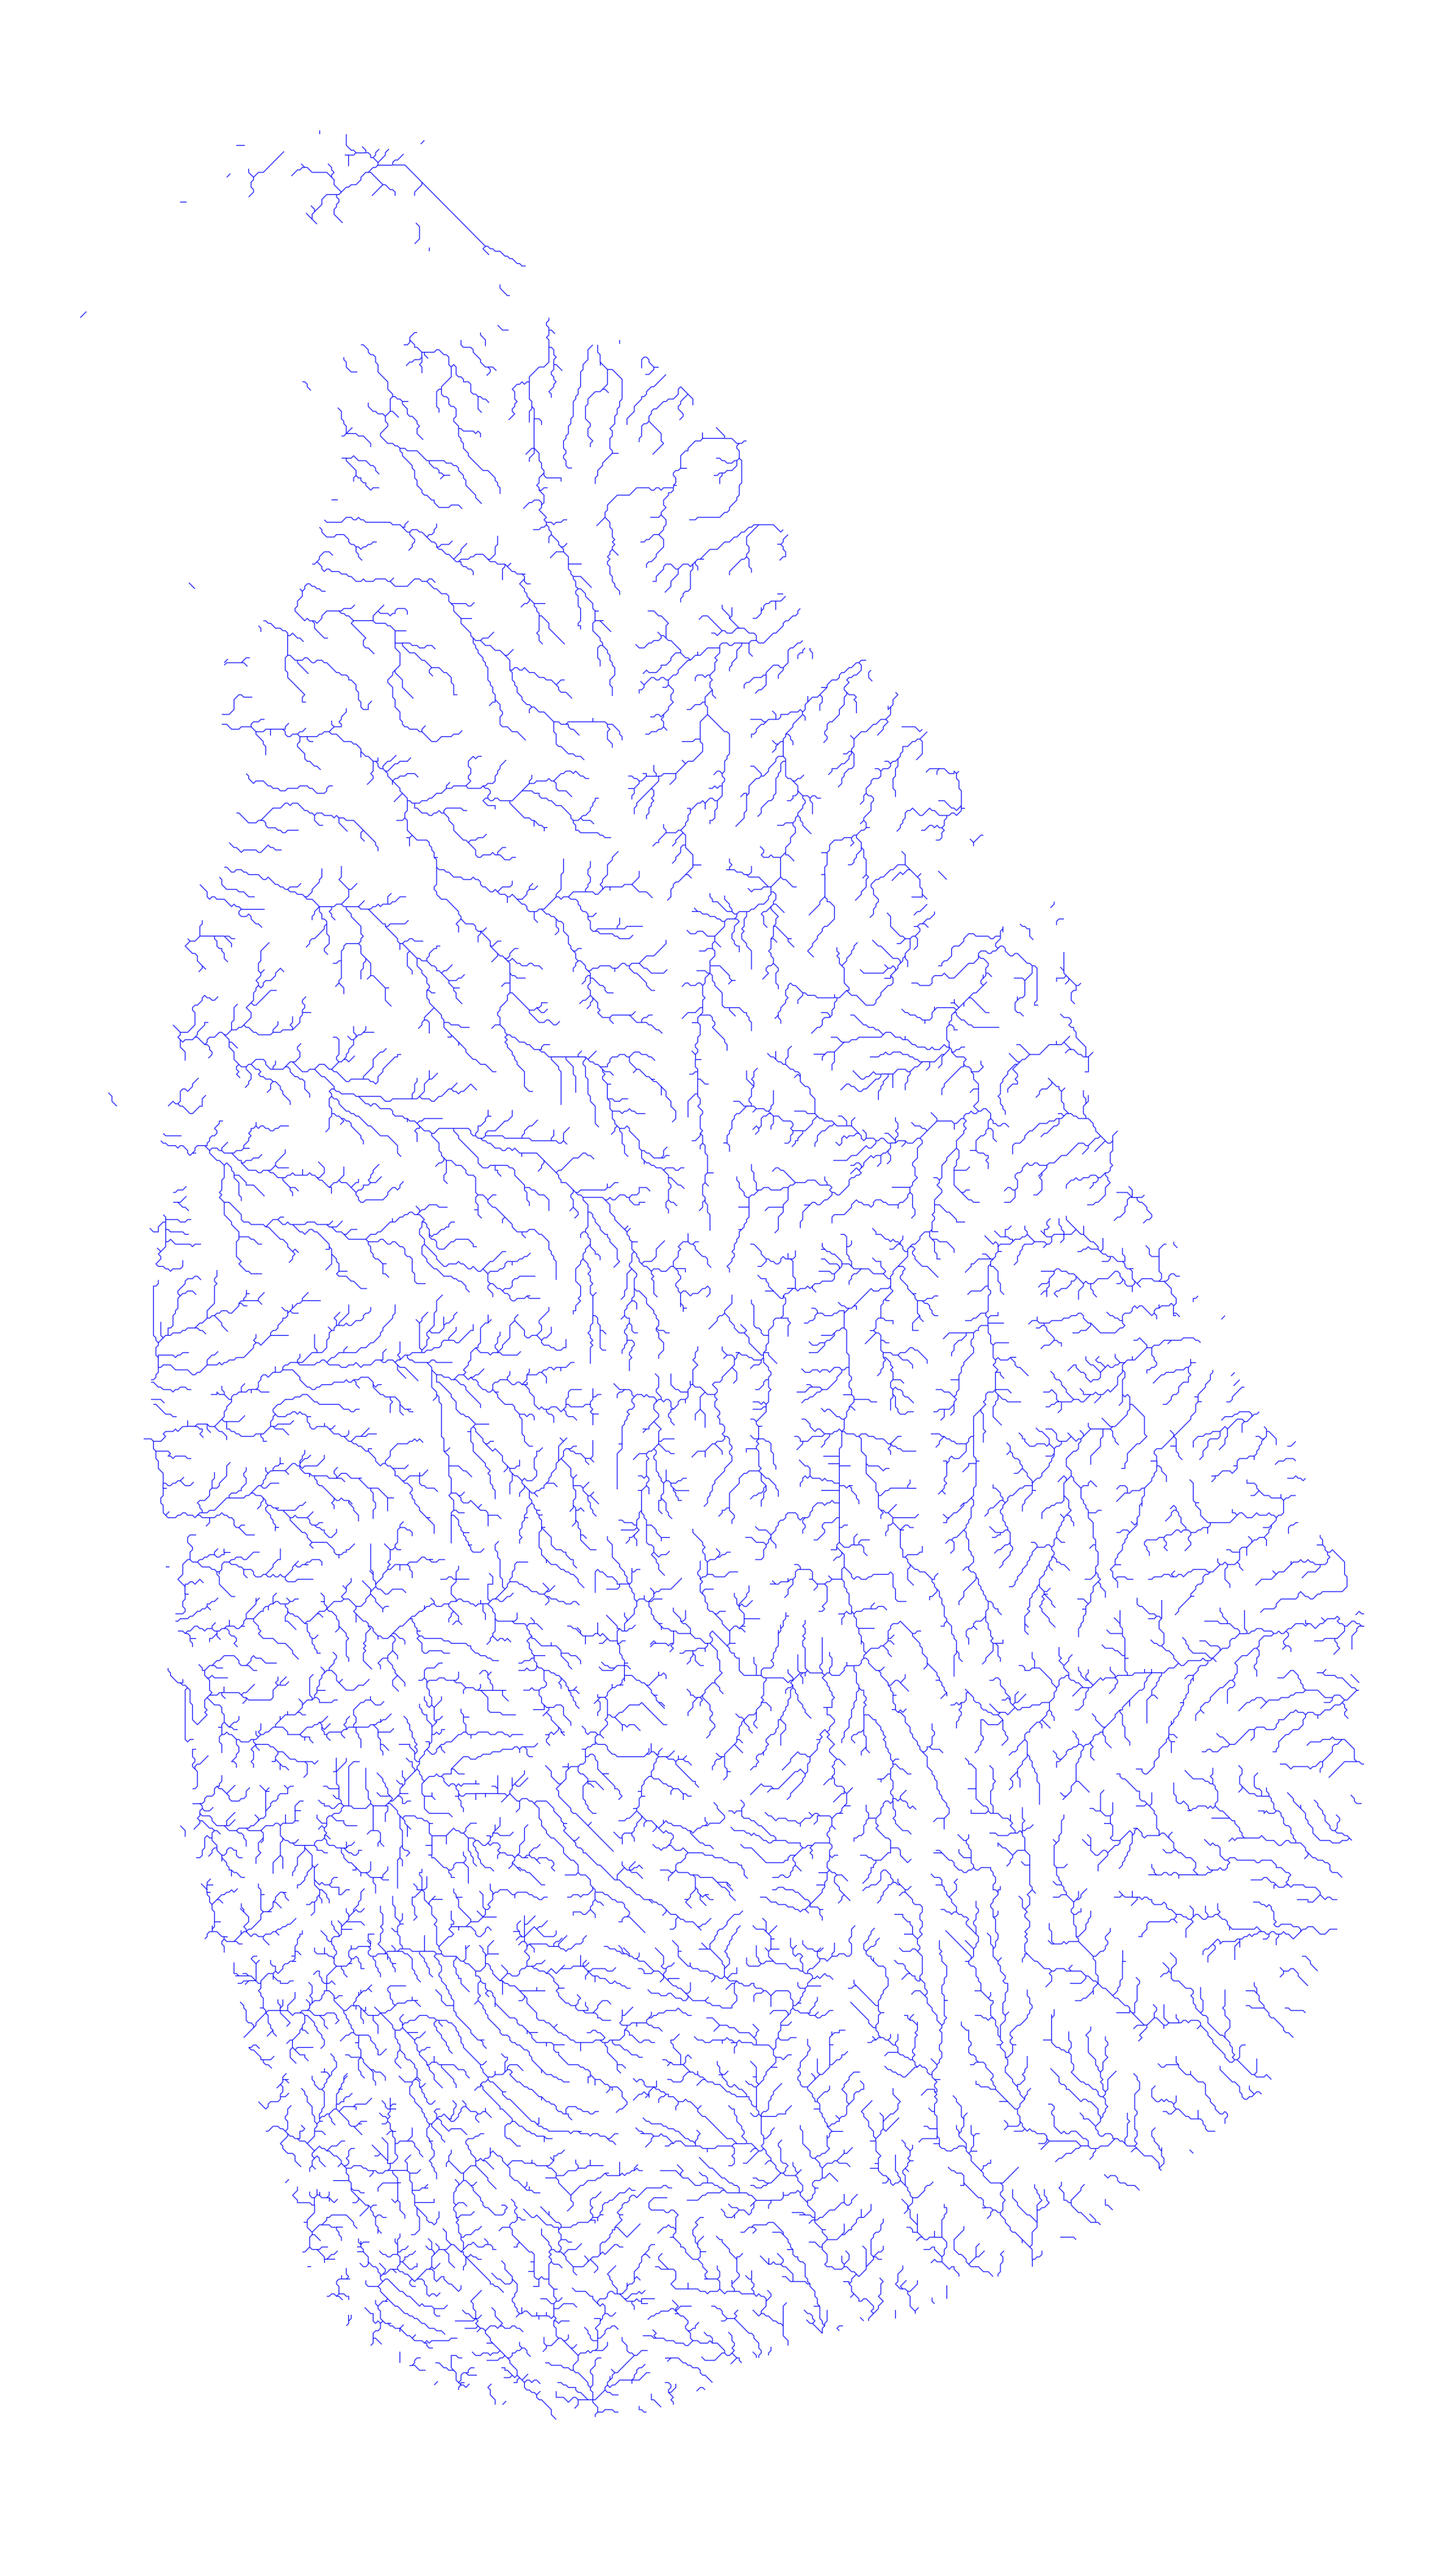
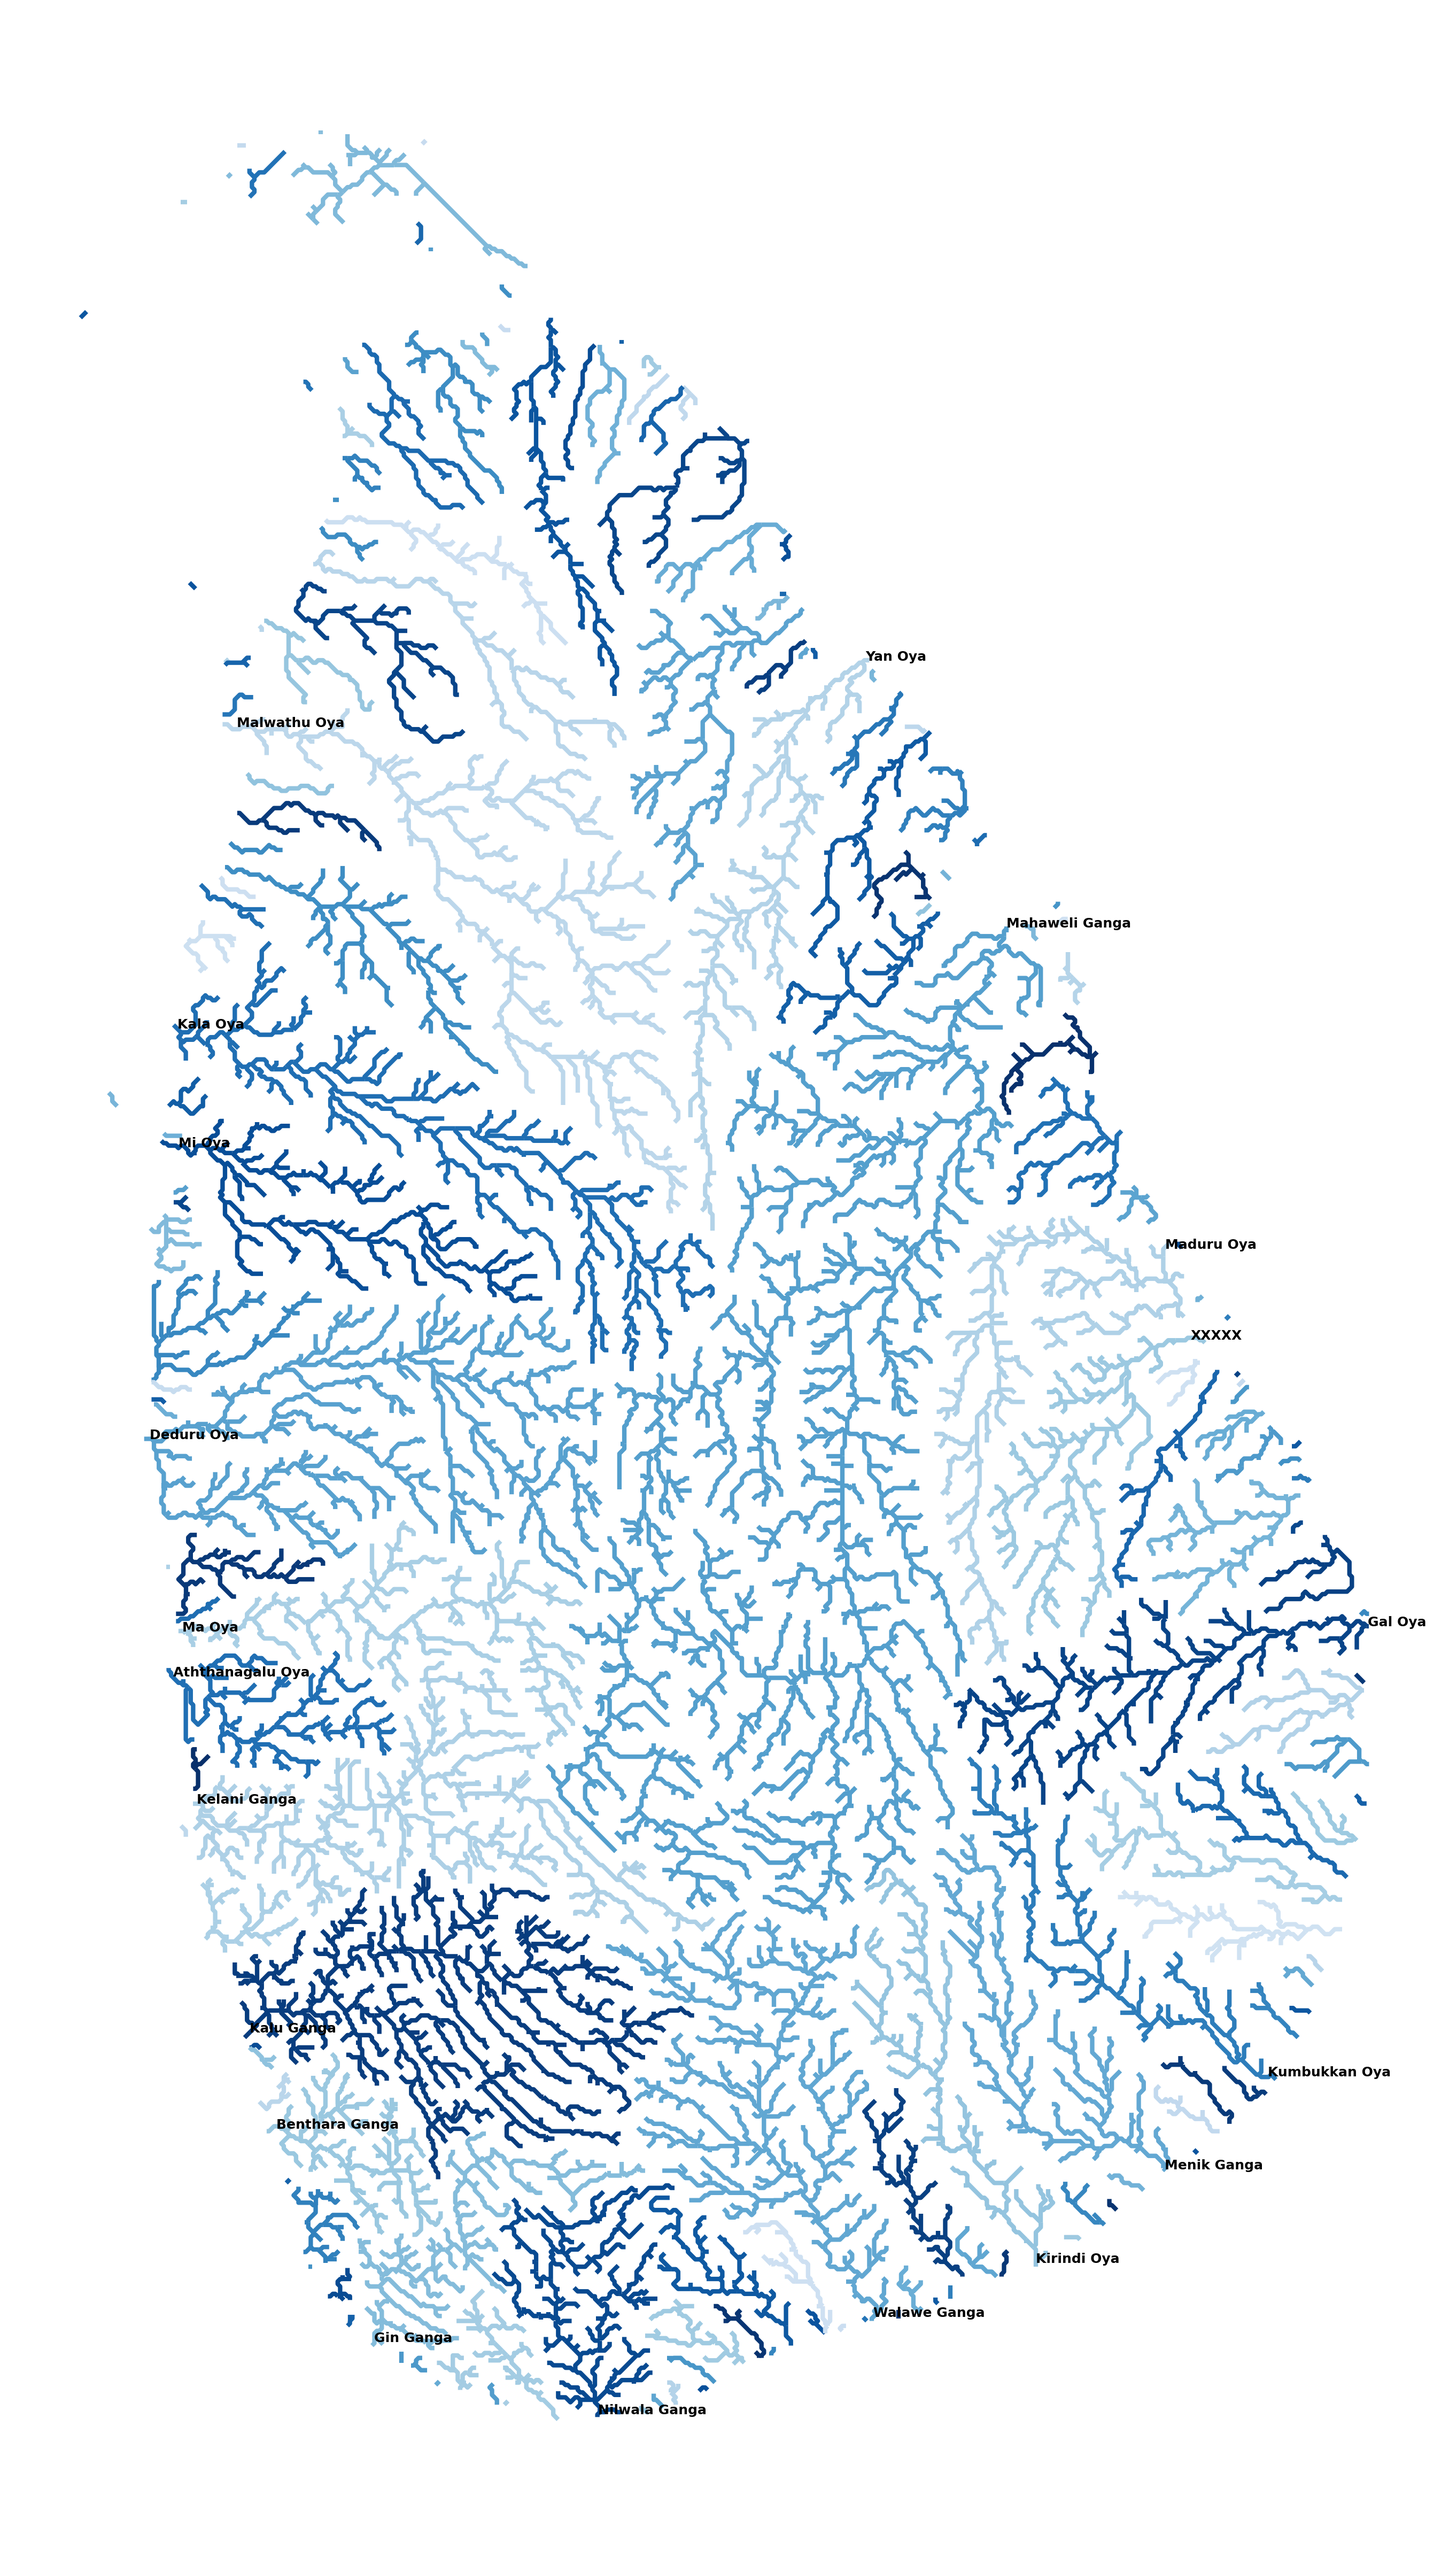
Add river ID to name mapping and enhance river rendering with annotations

Changed region(s): [[0.0933, 0.1249, 0.9641, 0.9683], [0.2177, 0.0625, 0.311, 0.0937]]

diff --git a/workflows/render_rivers.py b/workflows/render_rivers.py
@@ -2,7 +2,9 @@
 Render rivers from HydroRIVERS GeoDB
 """
 
+import json
 import os
+import random
 import zipfile
 from pathlib import Path
 
@@ -66,16 +68,71 @@ def filter_sri_lanka(gdf):
 
 
 def render_rivers(gdf, output_path=None):
-    """Render the rivers on a map"""
+    """
+    Render the rivers on a map using randomly distributed shades of blue for
+    each MAIN_RIV and annotate with river names from riv_id_to_name.json (if
+    available) at the mouth of the river (identified by NEXT_DOWN = 0).
+    """
     print("Rendering rivers...")
     print("GeoDataFrame columns:", gdf.columns.tolist())
     print("Sample data:")
     print(gdf.head())
 
+    # Load river ID to name mapping
+    riv_id_to_name_path = (
+        Path(__file__).parent.parent / "data/static/riv_id_to_name.json"
+    )
+    with open(riv_id_to_name_path, "r", encoding="utf-8") as f:
+        riv_id_to_name = json.load(f)
+
     fig, ax = plt.subplots(figsize=(12, 16))
 
-    # Plot rivers
-    gdf.plot(ax=ax, linewidth=0.5, edgecolor="blue", alpha=0.7)
+    # Assign a random shade of blue to each MAIN_RIV
+    if "MAIN_RIV" in gdf.columns:
+        unique_rivers = gdf["MAIN_RIV"].unique()
+        shades_of_blue = [plt.cm.Blues(i / 256) for i in range(50, 256)]
+        random.shuffle(shades_of_blue)
+        color_map = {
+            river: shades_of_blue[i % len(shades_of_blue)]
+            for i, river in enumerate(unique_rivers)
+        }
+        gdf["color"] = gdf["MAIN_RIV"].map(color_map)
+
+        # Plot rivers with their randomly assigned shades of blue
+        for river, group in gdf.groupby("MAIN_RIV"):
+            group.plot(
+                ax=ax,
+                linewidth=2,
+                color=color_map[river],
+                alpha=1,
+                label=str(river),
+            )
+
+            # Annotate the map with river names (if available) at the mouth
+            river_name = riv_id_to_name.get(str(river), None)
+            if river_name:
+                # Find the row where NEXT_DOWN = 0 (mouth of the river)
+                mouth_row = group[group["NEXT_DOWN"] == 0]
+                if not mouth_row.empty:
+                    mouth_row = mouth_row.iloc[0]
+                    if mouth_row.geometry.type == "LineString":
+                        x, y = mouth_row.geometry.coords[
+                            -1
+                        ]  # Mouth of the river
+                    else:
+                        x, y = mouth_row.geometry.centroid.xy
+                        x, y = x[0], y[0]
+                    ax.text(
+                        x,
+                        y,
+                        river_name,
+                        fontsize=6,
+                        color="black",
+                        weight="bold",
+                    )
+    else:
+        # Default to a single color if MAIN_RIV is not available
+        gdf.plot(ax=ax, linewidth=0.5, edgecolor="blue", alpha=0.7)
 
     # Remove axis labels, grid, and outer border
     ax.set_xlabel("")
@@ -85,33 +142,6 @@ def render_rivers(gdf, output_path=None):
     ax.set_yticks([])
     for spine in ax.spines.values():
         spine.set_visible(False)
-
-    # Annotate major rivers if possible
-    major_name_fields = ["name", "NAME", "RiverName", "RIVER_NAME"]
-    name_field = None
-    for field in major_name_fields:
-        if field in gdf.columns:
-            name_field = field
-            break
-
-    if name_field:
-        # Annotate all rivers with their names
-        for idx, row in gdf.iterrows():
-            if not row.get(name_field):
-                continue
-            geom = row.geometry
-            if geom.type == "LineString":
-                x, y = geom.interpolate(0.5, normalized=True).xy
-            else:
-                x, y = geom.centroid.xy
-            ax.text(
-                x[0],
-                y[0],
-                str(row[name_field]),
-                fontsize=8,
-                color="darkred",
-                weight="bold",
-            )
 
     plt.tight_layout()
 

diff --git a/workflows/analyse_rivers.py b/workflows/analyse_rivers.py
@@ -1,0 +1,33 @@
+import json
+import os
+
+
+def main():
+    DIR_RIVERS = os.path.join("data", "rivers")
+    main_riv_id_to_file_size = {}
+    for file_name in os.listdir(DIR_RIVERS):
+        if not file_name.endswith(".geojson"):
+            continue
+        riv_id = file_name.replace(".geojson", "")
+        file_path = os.path.join(DIR_RIVERS, file_name)
+        file_size = os.path.getsize(file_path)
+        main_riv_id_to_file_size[riv_id] = file_size
+
+    idx = {}
+    for riv_id, file_size in list(
+        sorted(
+            main_riv_id_to_file_size.items(),
+            key=lambda item: item[1],
+            reverse=True,
+        )
+    )[10:20]:
+        print(riv_id, file_size)
+        url = f"https://github.com/nuuuwan/lk_rivers/blob/main/data/rivers/{riv_id}.geojson"
+        os.system(f'open "{url}"')
+        idx[riv_id] = "XXXXX"
+
+    print(json.dumps(idx, indent=2))
+
+
+if __name__ == "__main__":
+    main()
